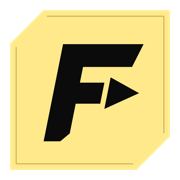
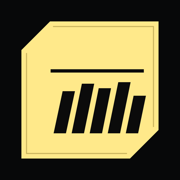
측정 앱 전용 로고(RTA 막대 + 목표선)로 교체
Claude-Session: https://claude.ai/code/session_01LYmAc753G15WyWKqqpktzh

diff --git a/index.html b/index.html
@@ -9,7 +9,7 @@
 <meta name="theme-color" content="#070809">
 <title>Flo.D Pink RTA</title>
 <link rel="apple-touch-icon" href="apple-touch-icon.png">
-<link rel="icon" href="logo.png">
+<link rel="icon" href="logo.svg" type="image/svg+xml">
 <link rel="preconnect" href="https://fonts.googleapis.com">
 <link rel="stylesheet" href="https://fonts.googleapis.com/css2?family=JetBrains+Mono:wght@500;700&display=swap">
 <style>
@@ -81,7 +81,7 @@ button.on{background:var(--text);color:var(--bg)}
 </head>
 <body>
 <header>
-  <div class="brand"><img class="mark-logo" src="logo.png" alt=""><span class="logo">Flo<i>.</i>D</span><span class="app">PINK RTA</span></div>
+  <div class="brand"><img class="mark-logo" src="logo.svg" alt=""><span class="logo">Flo<i>.</i>D</span><span class="app">PINK RTA</span></div>
   <div class="state" id="state"><b></b><span id="stateTxt">대기</span></div>
 </header>
 
